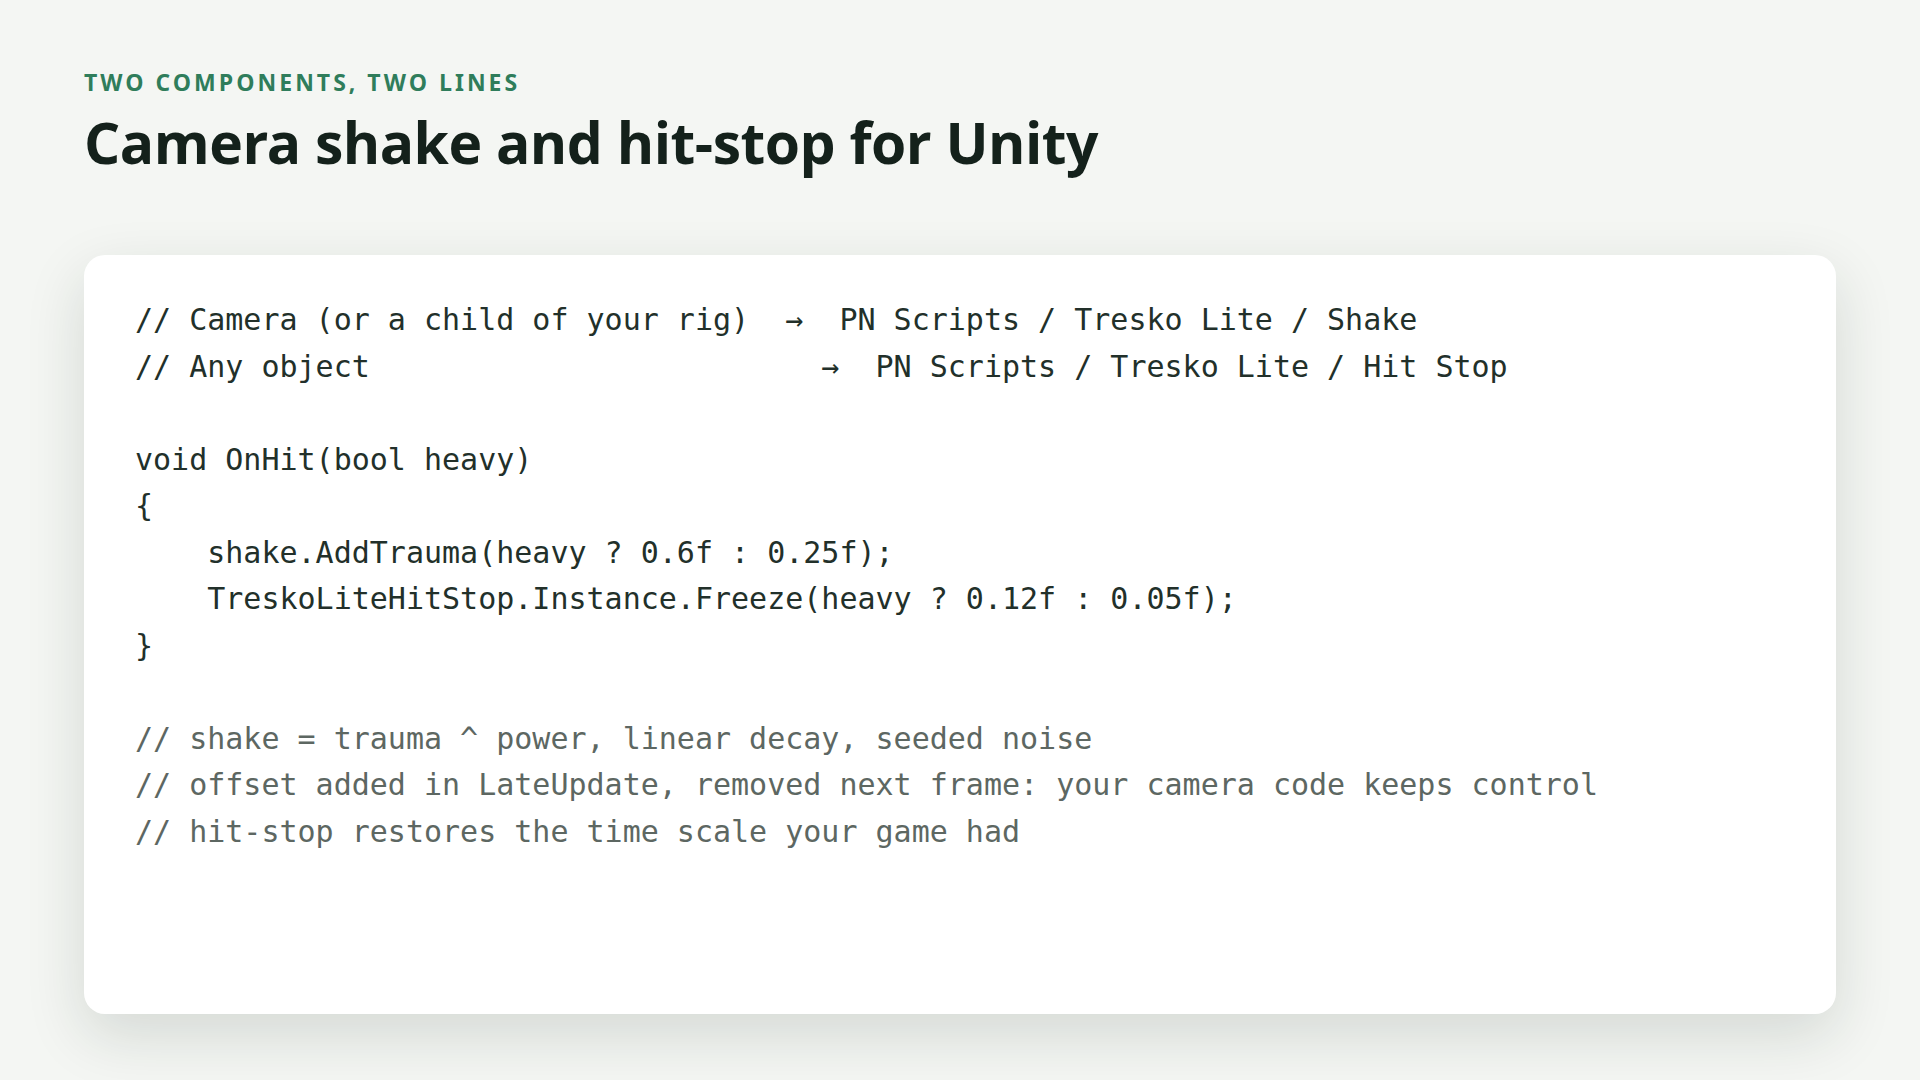
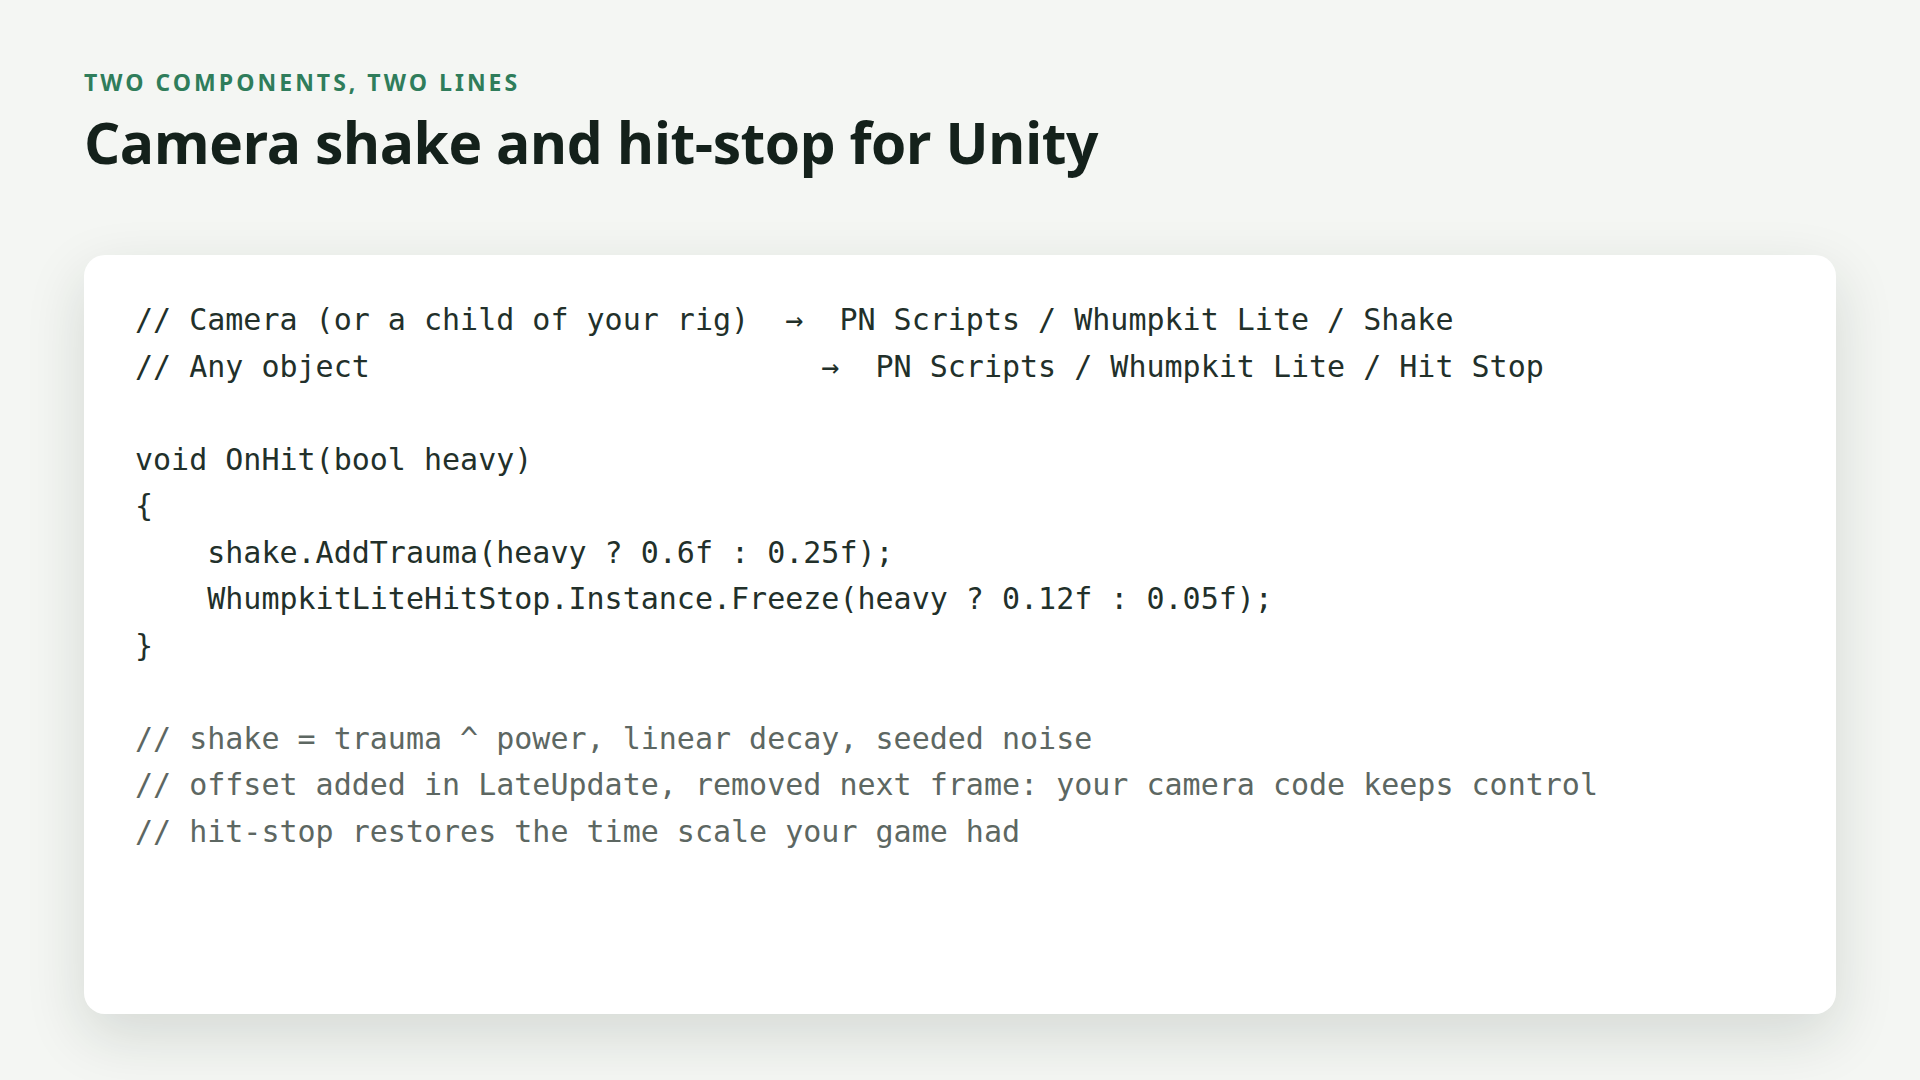
Rename Tresko Lite to Whumpkit Lite, version 2.0.0 (trademark clash)

Changed region(s): [[0.0938, 0.5194, 0.6562, 0.5806], [0.5625, 0.275, 0.8125, 0.3667]]

diff --git a/build.py b/build.py
@@ -3,13 +3,13 @@
 
     python3 build.py
 
-Copies the plain C# core (src/Tresko.Core/*.cs) into Runtime/Core with its own assembly
+Copies the plain C# core (src/Whumpkit.Core/*.cs) into Runtime/Core with its own assembly
 definition (no engine references), adds README, LICENSE and CHANGELOG, writes a .meta file with a
 stable GUID for every file and folder (Unity needs them for read-only tarball packages) and writes:
 
-  release/com.pnscripts.tresko-lite-1.0.0.tgz   Package Manager > + > Add package from tarball
-  release/com.pnscripts.tresko-lite-1.0.0.zip   the same folder, to unpack into <project>/Packages/
-  build/AssetStore/Assets/PN Scripts/Tresko Lite/  the same files under one root folder, as the
+  release/com.pnscripts.whumpkit-lite-2.0.0.tgz   Package Manager > + > Add package from tarball
+  release/com.pnscripts.whumpkit-lite-2.0.0.zip   the same folder, to unpack into <project>/Packages/
+  build/AssetStore/Assets/PN Scripts/Whumpkit Lite/  the same files under one root folder, as the
       Asset Store asks (guideline 2.1.a); open build/AssetStore as a Unity project and export it
       with the Asset Store Publishing Tools.
 """
@@ -21,15 +21,15 @@ import zipfile
 from pathlib import Path
 
 ROOT = Path(__file__).resolve().parent
-NAME = "com.pnscripts.tresko-lite"
+NAME = "com.pnscripts.whumpkit-lite"
 SRC = ROOT / "unity" / NAME
-CORE = ROOT / "src" / "TreskoLite.Core"
+CORE = ROOT / "src" / "WhumpkitLite.Core"
 STAGE = ROOT / "build" / NAME
 DIST = ROOT / "release"
 VERSION = json.loads((SRC / "package.json").read_text())["version"]
 
 CORE_ASMDEF = {
-    "name": "PNScripts.TreskoLite.Core", "rootNamespace": "PNScripts.TreskoLite", "references": [],
+    "name": "PNScripts.WhumpkitLite.Core", "rootNamespace": "PNScripts.WhumpkitLite", "references": [],
     "includePlatforms": [], "excludePlatforms": [], "allowUnsafeCode": False, "overrideReferences": False,
     "precompiledReferences": [], "autoReferenced": True, "defineConstraints": [], "versionDefines": [],
     "noEngineReferences": True,
@@ -56,7 +56,7 @@ def main():
     core.mkdir(parents=True)
     for cs in sorted(CORE.glob("*.cs")):
         shutil.copy(cs, core / cs.name)
-    (core / "PNScripts.TreskoLite.Core.asmdef").write_text(json.dumps(CORE_ASMDEF, indent=4) + "\n")
+    (core / "PNScripts.WhumpkitLite.Core.asmdef").write_text(json.dumps(CORE_ASMDEF, indent=4) + "\n")
     shutil.copy(ROOT / "README.md", STAGE / "README.md")
     shutil.copy(ROOT / "LICENSE", STAGE / "LICENSE.md")
     shutil.copy(ROOT / "CHANGELOG.md", STAGE / "CHANGELOG.md")
@@ -82,7 +82,7 @@ def main():
     # Asset Store layout: one root folder under Assets/, samples included as a normal folder.
     store = ROOT / "build" / "AssetStore"
     shutil.rmtree(store, ignore_errors=True)
-    root = store / "Assets" / "PN Scripts" / "Tresko Lite"
+    root = store / "Assets" / "PN Scripts" / "Whumpkit Lite"
     shutil.copytree(STAGE, root, ignore=shutil.ignore_patterns("*.meta", "package.json", "Samples~"))
     shutil.copytree(STAGE / "Samples~" / "ShakeDemo", root / "Samples" / "ShakeDemo")
     (store / "ProjectSettings").mkdir(parents=True)

diff --git a/unity/com.pnscripts.whumpkit-lite/Samples~/ShakeDemo/WhumpkitLiteShakeDemo.cs b/unity/com.pnscripts.whumpkit-lite/Samples~/ShakeDemo/WhumpkitLiteShakeDemo.cs
@@ -1,18 +1,18 @@
 using UnityEngine;
 
-namespace PNScripts.TreskoLite.Samples
+namespace PNScripts.WhumpkitLite.Samples
 {
     /// <summary>
-    /// Shake Demo for Tresko Lite: add this component to an empty GameObject in an empty scene and
+    /// Shake Demo for Whumpkit Lite: add this component to an empty GameObject in an empty scene and
     /// press Play. It makes a camera with a shaker child, a hit-stop and a spinning cube, hits on a
     /// timer and has on-screen buttons, so it needs no input system.
     /// </summary>
-    public sealed class TreskoLiteShakeDemo : MonoBehaviour
+    public sealed class WhumpkitLiteShakeDemo : MonoBehaviour
     {
         public float hitEvery = 1.2f;
 
-        private TreskoLiteShake _shake;
-        private TreskoLiteHitStop _stop;
+        private WhumpkitLiteShake _shake;
+        private WhumpkitLiteHitStop _stop;
         private Transform _cube;
         private float _next;
         private bool _heavy;
@@ -25,8 +25,8 @@ namespace PNScripts.TreskoLite.Samples
             cam.tag = "MainCamera";
             cam.transform.SetParent(rig, false);
             cam.transform.localRotation = Quaternion.Euler(8f, 0f, 0f);
-            _shake = cam.gameObject.AddComponent<TreskoLiteShake>();
-            _stop = gameObject.AddComponent<TreskoLiteHitStop>();
+            _shake = cam.gameObject.AddComponent<WhumpkitLiteShake>();
+            _stop = gameObject.AddComponent<WhumpkitLiteHitStop>();
             new GameObject("Light", typeof(Light)).GetComponent<Light>().type = LightType.Directional;
             _cube = GameObject.CreatePrimitive(PrimitiveType.Cube).transform;
             _cube.position = new Vector3(0f, 1f, 0f);

diff --git a/unity/com.pnscripts.whumpkit-lite/Editor/WhumpkitLiteInspectors.cs b/unity/com.pnscripts.whumpkit-lite/Editor/WhumpkitLiteInspectors.cs
@@ -1,16 +1,16 @@
 using UnityEditor;
 using UnityEngine;
 
-namespace PNScripts.TreskoLite.Editor
+namespace PNScripts.WhumpkitLite.Editor
 {
     /// <summary>Try buttons in Play mode, so shake and hit-stop can be tuned while the game runs.</summary>
-    [CustomEditor(typeof(TreskoLiteShake))]
-    public sealed class TreskoLiteShakeEditor : UnityEditor.Editor
+    [CustomEditor(typeof(WhumpkitLiteShake))]
+    public sealed class WhumpkitLiteShakeEditor : UnityEditor.Editor
     {
         public override void OnInspectorGUI()
         {
             DrawDefaultInspector();
-            var shake = (TreskoLiteShake)target;
+            var shake = (WhumpkitLiteShake)target;
             using (new EditorGUI.DisabledScope(!Application.isPlaying))
             {
                 EditorGUILayout.Space();
@@ -25,13 +25,13 @@ namespace PNScripts.TreskoLite.Editor
         }
     }
 
-    [CustomEditor(typeof(TreskoLiteHitStop))]
-    public sealed class TreskoLiteHitStopEditor : UnityEditor.Editor
+    [CustomEditor(typeof(WhumpkitLiteHitStop))]
+    public sealed class WhumpkitLiteHitStopEditor : UnityEditor.Editor
     {
         public override void OnInspectorGUI()
         {
             DrawDefaultInspector();
-            var stop = (TreskoLiteHitStop)target;
+            var stop = (WhumpkitLiteHitStop)target;
             using (new EditorGUI.DisabledScope(!Application.isPlaying))
             {
                 EditorGUILayout.Space();

diff --git a/unity/com.pnscripts.whumpkit-lite/Runtime/WhumpkitLiteHitStop.cs b/unity/com.pnscripts.whumpkit-lite/Runtime/WhumpkitLiteHitStop.cs
@@ -1,15 +1,15 @@
 using UnityEngine;
 
-namespace PNScripts.TreskoLite
+namespace PNScripts.WhumpkitLite
 {
     /// <summary>
     /// Hit-stop: freezes or slows Time.timeScale for a short real-time duration and then puts
     /// back the scale the game had (your slow motion survives). Overlapping freezes extend,
     /// long chains are capped. One per scene is enough; Instance finds it.
     /// </summary>
-    [AddComponentMenu("PN Scripts/Tresko Lite/Hit Stop")]
+    [AddComponentMenu("PN Scripts/Whumpkit Lite/Hit Stop")]
     [DisallowMultipleComponent]
-    public sealed class TreskoLiteHitStop : MonoBehaviour
+    public sealed class WhumpkitLiteHitStop : MonoBehaviour
     {
         [Tooltip("Longest total freeze in one chain of hits (seconds of real time).")]
         public float maxTotal = 0.35f;
@@ -18,7 +18,7 @@ namespace PNScripts.TreskoLite
 
         private readonly HitStop _stop = new HitStop();
 
-        public static TreskoLiteHitStop Instance { get; private set; }
+        public static WhumpkitLiteHitStop Instance { get; private set; }
         public bool IsFrozen => _stop.IsActive;
 
         private void OnEnable()

diff --git a/unity/com.pnscripts.whumpkit-lite/Runtime/WhumpkitLiteShake.cs b/unity/com.pnscripts.whumpkit-lite/Runtime/WhumpkitLiteShake.cs
@@ -1,6 +1,6 @@
 using UnityEngine;
 
-namespace PNScripts.TreskoLite
+namespace PNScripts.WhumpkitLite
 {
     /// <summary>
     /// Trauma camera shake for any Transform (usually the camera, or a child "shaker" object
@@ -8,9 +8,9 @@ namespace PNScripts.TreskoLite
     /// your camera controller, Cinemachine or animation keeps full control of the real position.
     /// Runs on unscaled time by default, so it keeps shaking during hit-stop.
     /// </summary>
-    [AddComponentMenu("PN Scripts/Tresko Lite/Shake")]
+    [AddComponentMenu("PN Scripts/Whumpkit Lite/Shake")]
     [DisallowMultipleComponent]
-    public sealed class TreskoLiteShake : MonoBehaviour
+    public sealed class WhumpkitLiteShake : MonoBehaviour
     {
         [Tooltip("Same seed, same motion.")]
         public int seed = 1;

diff --git a/src/WhumpkitLite.Core/Shake.cs b/src/WhumpkitLite.Core/Shake.cs
@@ -1,6 +1,6 @@
 using System;
 
-namespace PNScripts.TreskoLite
+namespace PNScripts.WhumpkitLite
 {
     /// <summary>Offsets of one shake frame: position in units, rotation in degrees.</summary>
     public struct ShakeOffset

diff --git a/tests/WhumpkitLite.Tests/CoreTests.cs b/tests/WhumpkitLite.Tests/CoreTests.cs
@@ -1,9 +1,9 @@
 using System;
 using System.Linq;
-using PNScripts.TreskoLite;
+using PNScripts.WhumpkitLite;
 using Xunit;
 
-namespace TreskoLite.Tests
+namespace WhumpkitLite.Tests
 {
     public class NoiseTests
     {

diff --git a/src/WhumpkitLite.Core/HitStop.cs b/src/WhumpkitLite.Core/HitStop.cs
@@ -1,6 +1,6 @@
 using System;
 
-namespace PNScripts.TreskoLite
+namespace PNScripts.WhumpkitLite
 {
     /// <summary>
     /// Hit-stop (freeze frames) as a time-scale clock driven by real time. Freeze(0.08) drops

diff --git a/src/WhumpkitLite.Core/Noise.cs b/src/WhumpkitLite.Core/Noise.cs
@@ -1,6 +1,6 @@
 using System;
 
-namespace PNScripts.TreskoLite
+namespace PNScripts.WhumpkitLite
 {
     /// <summary>
     /// Smooth, seeded 1D gradient noise in -1..1 (Perlin style, quintic fade). The same seed

diff --git a/README.md b/README.md
@@ -1,4 +1,4 @@
-# Tresko Lite by PN Scripts
+# Whumpkit Lite by PN Scripts
 
 Free game feel for Unity (MIT): **trauma camera shake** that leaves your
 camera controller in charge, and **hit-stop** that gives your time scale
@@ -7,35 +7,35 @@ components put it on your GameObjects.
 
 ## Quick start
 
-1. Install: Unity Asset Store ("Tresko Lite"), or Package Manager > **+** >
-   **Add package from tarball...** with `com.pnscripts.tresko-lite-1.0.0.tgz`.
-2. Add **PN Scripts > Tresko Lite > Shake** to your camera (or a child of
-   your camera rig) and **PN Scripts > Tresko Lite > Hit Stop** to any object.
+1. Install: Unity Asset Store ("Whumpkit Lite"), or Package Manager > **+** >
+   **Add package from tarball...** with `com.pnscripts.whumpkit-lite-2.0.0.tgz`.
+2. Add **PN Scripts > Whumpkit Lite > Shake** to your camera (or a child of
+   your camera rig) and **PN Scripts > Whumpkit Lite > Hit Stop** to any object.
 3. On a hit:
 
    ```csharp
    shake.AddTrauma(heavy ? 0.6f : 0.25f);
-   TreskoLiteHitStop.Instance.Freeze(heavy ? 0.12f : 0.05f);
+   WhumpkitLiteHitStop.Instance.Freeze(heavy ? 0.12f : 0.05f);
    ```
 
 The **Shake Demo** sample builds a camera and a cube at runtime and hits on a
-timer: add `TreskoLiteShakeDemo` to an empty GameObject in an empty scene and
+timer: add `WhumpkitLiteShakeDemo` to an empty GameObject in an empty scene and
 press Play.
 
 ## Components
 
-- **TreskoLiteShake**: trauma 0..1 added by hits, linear decay, strength =
+- **WhumpkitLiteShake**: trauma 0..1 added by hits, linear decay, strength =
   trauma ^ power, offsets and rotation from seeded noise. The offset is added
   in LateUpdate and removed the next frame, so your camera controller or
   Cinemachine keeps the real position. Unscaled time by default, so it shakes
   during hit-stop; `intensity` for an accessibility setting.
-- **TreskoLiteHitStop**: `Freeze(seconds, scale)` on real time; restores the
+- **WhumpkitLiteHitStop**: `Freeze(seconds, scale)` on real time; restores the
   time scale the game had (your slow motion survives); overlapping freezes
   extend and take the lowest scale; a chain is capped (`maxTotal`) and
   followed by a short cooldown.
 - Inspector buttons try both in Play mode.
 
-The full edition, Tresko, adds squash and stretch, hit flash, knockback,
+The full edition, Whumpkit, adds squash and stretch, hit flash, knockback,
 punch, easing and one `Impact()` call:
 https://pnscripts.com/marketplace/unity-tresko. Lite is complete on its own.
 

diff --git a/listing/LISTING.md b/listing/LISTING.md
@@ -1,16 +1,16 @@
-# Tresko Lite: Unity Asset Store (free asset)
+# Whumpkit Lite: Unity Asset Store (free asset)
 
 Nothing has been submitted. Rules: https://assetstore.unity.com/publishing/submission-guidelines (last updated 2026-05-20).
 
 Asset Store fit (checked 2026-10-12):
-- Lite versions are allowed when every included feature works identically to the full product (1.4.c): the Lite components use the same core code as Tresko.
-- One root folder (2.1.a): `build/AssetStore/Assets/PN Scripts/Tresko Lite/`. Documentation included (README.md, 2.3.a).
+- Lite versions are allowed when every included feature works identically to the full product (1.4.c): the Lite components use the same core code as Whumpkit.
+- One root folder (2.1.a): `build/AssetStore/Assets/PN Scripts/Whumpkit Lite/`. Documentation included (README.md, 2.3.a).
 - AI disclosure is mandatory when any functional part involved AI (1.6.a/b): answer **yes** in the "AI description" field and name the tools (code written with Claude by Anthropic, reviewed and tested by PN Scripts). No "hand-made" wording (1.6.c).
 - Publisher account: active e-mail and an actively maintained website (4.1.a): office@pnscripts.com, https://pnscripts.com.
 
 Owner steps:
 1. Sign in to Unity Hub (the editor 6000.5.4f1 is installed but needs a sign-in) and create the publisher profile at https://publisher.unity.com (name "PN Scripts", website pnscripts.com). Free assets need no payout or tax setup.
-2. `make build`, then open `build/AssetStore` as a project in Unity 2022.3+ (or 6000.x), install "Asset Store Publishing Tools" from the Package Manager, and upload `Assets/PN Scripts/Tresko Lite` as the package for a new draft "Tresko Lite: Camera Shake and Hit-Stop", price Free, category Tools/Camera (or Tools/Game Toolkits).
+2. `make build`, then open `build/AssetStore` as a project in Unity 2022.3+ (or 6000.x), install "Asset Store Publishing Tools" from the Package Manager, and upload `Assets/PN Scripts/Whumpkit Lite` as the package for a new draft "Whumpkit Lite: Camera Shake and Hit-Stop", price Free, category Tools/Camera (or Tools/Game Toolkits).
 3. Marketing images (`listing/assetstore/`): icon 160×160, card 420×280, cover 1200×800 (sizes from Unity support article 210122403), social 1200×630 (size UNVERIFIED: check the Publisher Portal template), screenshot 1920×1080.
 4. Description: README "Components" section. Keywords: camera shake, screen shake, hit stop, freeze frame, game feel, juice.
 

diff --git a/CHANGELOG.md b/CHANGELOG.md
@@ -1,5 +1,14 @@
 # Changelog
 
+## 2.0.0 (2026-10-27)
+
+- Renamed from Tresko Lite (trademark clash); no behaviour change. The product is now Whumpkit Lite for Unity.
+- Migration (public names changed): package id `com.pnscripts.tresko-lite` -> `com.pnscripts.whumpkit-lite`
+  (remove the old package, add the new one); namespace `PNScripts.TreskoLite` -> `PNScripts.WhumpkitLite`;
+  components `TreskoLiteShake` and `TreskoLiteHitStop` -> `WhumpkitLiteShake` and `WhumpkitLiteHitStop`.
+  Components already on scene objects lose their script link; re-add them (field names and values are unchanged).
+  The repository moved to https://github.com/pnscripts/unity-whumpkit-lite (the old address redirects).
+
 ## 1.0.0 (2026-10-12)
 
 - First release of the Lite edition: TreskoLiteShake, TreskoLiteHitStop, inspector buttons, Shake Demo sample, plain C# core with tests.
